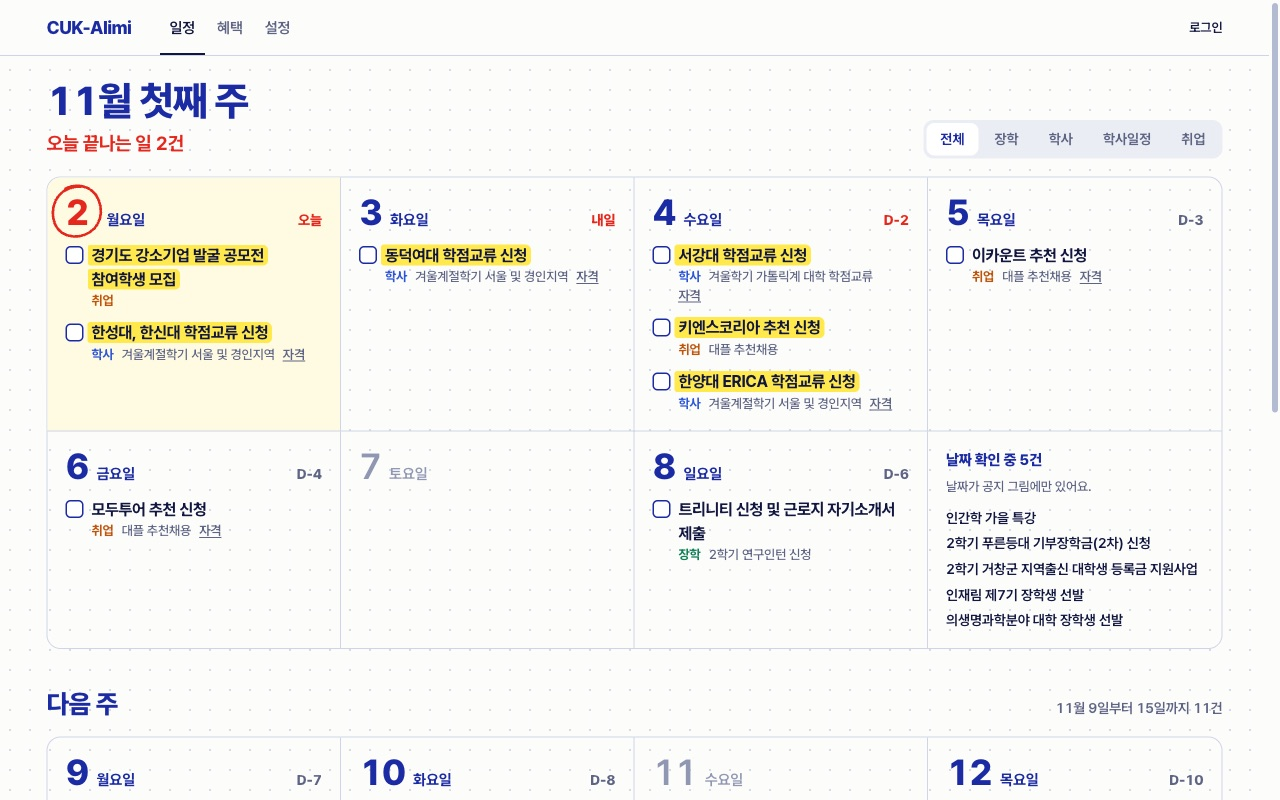
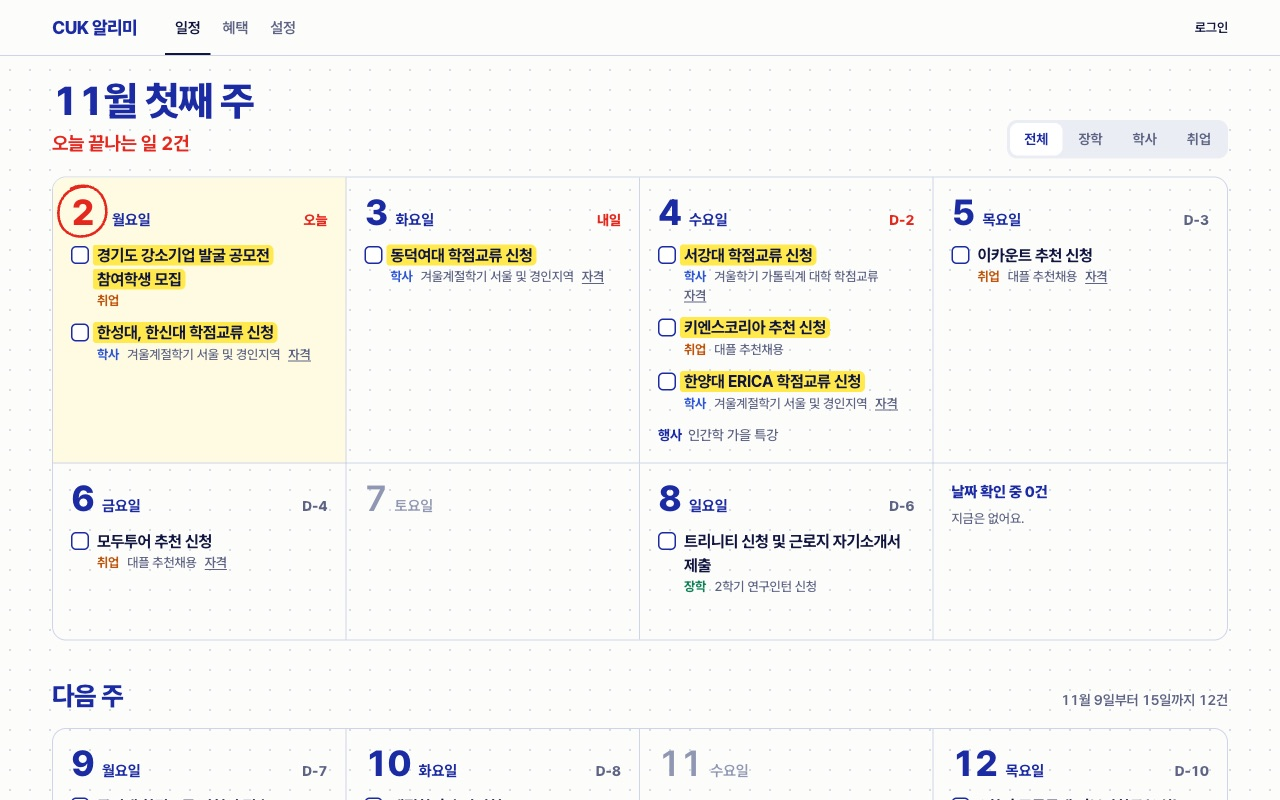
docs: 결정 기록을 1인칭으로 고치고 README를 제품부터 보여 주는 순서로 바꾼다

diff --git a/src/main/java/com/cukalimi/domain/DateItem.java b/src/main/java/com/cukalimi/domain/DateItem.java
@@ -20,7 +20,7 @@ public class DateItem {
 
     public static final String STATUS_AUTO = "AUTO";
     public static final String STATUS_REVIEWED = "REVIEWED";
-    /** 공지 그림을 AI가 받아 적은 글에서 읽은 날짜. 운영자가 승인하기 전까지 학생에게 보이지 않는다 (ADR 010). */
+    /** 공지 그림에서 읽었지만 공개하지 못한 날짜. 두 번 읽기가 어긋났거나 신고로 내려 운영자를 기다린다 (ADR 010). */
     public static final String STATUS_CANDIDATE = "CANDIDATE";
     /** 그림을 두 번 받아 적어 날짜가 일치해 자동으로 공개한 항목 (ADR 010). */
     public static final String STATUS_AUTO_IMAGE = "AUTO_IMAGE";

diff --git a/src/main/java/com/cukalimi/config/AppProperties.java b/src/main/java/com/cukalimi/config/AppProperties.java
@@ -33,7 +33,7 @@ public record AppProperties(
     }
 
     /**
-     * 그림 공지 받아 적기 (ADR 010). apiKey가 비면 꺼진다. dailyLimit은 하루에 새로 받아 적는 그림 수의 상한이다.
+     * 그림 공지 받아 적기 (ADR 010). apiKey가 비면 꺼진다. dailyLimit은 하루 호출 수의 상한이다. 그림 한 장을 두 번 읽으니 그림 수로는 절반이다.
      * toString에 키가 찍히지 않게 한다.
      */
     public record Transcribe(String apiKey, String model, int dailyLimit, String cron) {

diff --git a/README.md b/README.md
@@ -1,8 +1,16 @@
 # CUK-Alimi
 
-> A deadline tracker for Catholic University of Korea students. It collects school notices every hour, extracts the deadlines students must act on, and sends one morning email. Deadlines that only exist inside images are transcribed by Claude Haiku, parsed by the same rules, and published only after an operator approves them. Extraction accuracy is measured on an 89-notice gold set in CI (precision and recall 0.977) and published on a public page.
+> A deadline tracker for Catholic University of Korea students. It collects school notices every hour, extracts the deadlines students must act on, and sends one morning email. Deadlines that only exist inside images are transcribed twice by Claude Haiku, parsed by the same rules, and published when both reads agree. Students can report a wrong date. Extraction accuracy is measured on an 89-notice gold set in CI (precision and recall 0.977) and published on a public page.
 
 가톨릭대 학생이 놓치기 쉬운 장학·학사 공지의 마감을 뽑아, 출처가 붙은 것만 홈과 아침 메일로 알려 주는 개인 서비스입니다.
+
+## 문제
+
+학교 공지 게시판은 올라온 순서대로만 보여 줍니다. 그런데 장학 공지는 대부분 특정 지역이나 계층만 낼 수 있어서(장학 31건 중 13건이 시·군·구 연고 조건), 내게 맞는 것을 찾으려면 전부 열어 봐야 합니다. 마감도 본문 문장이나 표, 그림 속에 흩어져 있고, 장학·학사 공지의 약 23%는 날짜와 자격이 그림이나 첨부에만 있습니다. 공지 알림 앱은 다른 학교에도 많지만, 살펴본 앱들(건국대 쿠링, 전남대 전대알림 등)은 새 글과 키워드 알림이 중심이고 마감을 뽑아 주지는 않았습니다.
+
+## 서비스
+
+아직 배포 전입니다. 주소가 생기면 여기에 적습니다.
 
 ![이번 주 마감을 8칸으로 펼친 홈](docs/images/home.jpg)
 
@@ -10,13 +18,9 @@
 |---|---|
 | <img src="docs/images/mobile.jpg" alt="휴대폰 홈" width="280"> | <img src="docs/images/quality.jpg" alt="마감 정확도 페이지" width="520"> |
 
-## 문제
-
-학교 공지 게시판은 올라온 순서대로만 보여 줍니다. 그런데 장학 공지는 대부분 특정 지역이나 계층만 낼 수 있어서(장학 31건 중 13건이 시·군·구 연고 조건), 내게 맞는 것을 찾으려면 전부 열어 봐야 합니다. 마감도 본문 문장이나 표, 그림 속에 흩어져 있고, 장학·학사 공지의 약 23%는 날짜와 자격이 그림이나 첨부에만 있습니다. 공지 알림 앱은 다른 학교에도 많지만, 살펴본 앱들(건국대 쿠링, 전남대 전대알림 등)은 새 글과 키워드 알림이 중심이고 마감을 뽑아 주지는 않았습니다.
-
 ## 핵심 결정
 
-1. **틀린 날짜는 보여 주지 않는다.** 출처 링크, 확인일, 마감이 모두 있는 항목만 화면에 나옵니다. 날짜를 못 읽은 공지는 추측하지 않고 "날짜 확인 중"에 접어 둡니다 (ADR 003).
+1. **근거 없는 날짜는 보여 주지 않는다.** 원문 링크가 있고 규칙이 읽어 낸 날짜만 화면에 나옵니다. 날짜를 못 읽은 공지는 추측하지 않고 "날짜 확인 중"에 접어 둡니다 (ADR 003).
 2. **AI는 글자만 옮기고 날짜는 규칙이 뽑는다.** 그림에만 날짜가 있는 공지는 Claude Haiku가 그림 글자를 그대로 받아 적고, 그 글을 글 공지와 같은 규칙에 넣습니다. AI에게 마감을 직접 물으면 그럴듯한 날짜를 지어내도 어디서 틀렸는지 알 수 없어서입니다. 같은 그림을 두 번 따로 읽어 날짜가 일치할 때만 자동으로 공개하고, 어긋나면 운영자에게 넘깁니다. 공개한 날짜는 학생이 신고할 수 있습니다 (ADR 010).
 3. **정확도는 정답셋으로 잰다.** 공지 89건에 정답 마감을 붙여 두고, 코드가 바뀔 때마다 CI에서 다시 뽑아 비교합니다. 정밀도나 재현율이 떨어지거나 분류되지 않은 새 오류가 생기면 빌드가 깨집니다. 결과는 공개 페이지(`/quality`)에 그대로 보입니다 (ADR 011).
 4. **개인화는 판정이 아니라 순서다.** 연고 지역과 학년이 맞는 공지를 위로 올리고, 좁은 대상의 공지는 지우지 않고 접습니다. 소득이나 성적 조건은 판정하지 않고 원문 자격 문단을 그대로 보여 줍니다 (ADR 008, 009).
@@ -29,7 +33,7 @@
 | 마감 추출 정밀도 / 재현율 (정답셋 89건, 마감 86개) | 0.977 / 0.977 (처음 잰 값 0.886 / 0.886) |
 | 글 공지 71건 | 0.973 / 0.973 |
 | 그림 공지 18건 | 1.000 / 1.000 |
-| 그림 받아 적기 비용 | 그림 1장 약 $0.0007, 지금까지 9장에 $0.006 |
+| 그림 받아 적기 비용 | 1회 약 $0.0007, 지금까지 15회에 $0.009 |
 
 0.886에서 0.977로 올리는 동안 백테스트가 두 번 변경을 막았습니다. 한 번은 "까지 학점교류"의 "학점"을 "2.5학점" 같은 수치로 보고 마감을 버리던 숨은 버그였고, 한 번은 라벨러 사이에 갈린 정답 기준이었습니다.
 
@@ -40,7 +44,14 @@
 - 프로필 네 칸(입학년도, 전공, 복수전공, 연고 지역)으로 "내 것"이라고 정직하게 말할 수 있는 공지는 24%뿐입니다. 완벽한 개인화는 되지 않습니다.
 - 그림에서 읽은 날짜는 두 번 읽기가 일치하면 사람 확인 없이 공개됩니다. 같은 모델이 같은 글자를 똑같이 잘못 읽으면 틀린 날짜가 나갈 수 있고, 시험에서 어긋난 사례가 없어 오류 검출력은 아직 재지 못했습니다.
 - 남은 오류는 문장 속 마감("10월 3일 오전까지 보내 주세요")과 특강 일정표입니다.
+- 학교 `robots.txt`가 막는 경로에서 공지 그림을 받습니다. 학교에 문의할지, 끄고 배포할지는 배포 직전에 정합니다 (ADR 010).
 - 아직 배포 전이라 실사용자 지표는 없습니다. 운영을 시작하면 검수 기록(`review_event`)이 같은 페이지에 쌓입니다.
+
+## AI를 어떻게 썼나
+
+**제품 안.** Claude Haiku는 그림 글자를 받아 적는 일만 합니다. 날짜 판단은 규칙이 합니다.
+
+**만드는 과정.** 구현, 조사, 코드 리뷰, 정답 라벨 초안에 AI 코딩 도구(Claude Code)를 썼습니다. 무엇을 만들고 무엇을 버릴지는 제가 정했고, 화면은 직접 써 보고 몇 번 뒤집었습니다. 결과는 테스트, 정답셋, 브라우저 확인으로 검증했습니다. 정답 라벨은 사람이 10건만 확인했습니다.
 
 ## 무엇을 하나요
 
@@ -86,9 +97,9 @@ docker exec cukalimi-postgres psql -U cukalimi -d cukalimi \
 
 ## 문서
 
-- `docs/decisions/` 결정 기록. 무엇을 왜 골랐는지 다섯 줄씩.
+- `docs/decisions/` 결정 기록. 무엇을 왜 골랐고 나중에 무엇이 바뀌었는지.
 - `docs/verification/` 검증 기록. 무엇을 어떻게 확인했고 무엇이 남았는지.
 - `src/test/resources/fixtures/gold/` 마감 추출 정답셋. 정답과 아직 못 고친 오류가 함께 적혀 있습니다.
 - `docs/architecture.md` 수집에서 알림까지의 흐름.
 - `docs/ops-log.md` 운영 일지. 사용자 수, 발송 수, 오류, 정정.
-- `docs/ai-log/` 계획과 리뷰 기록.
+- `docs/ai-log/` AI 도구로 작업한 날의 계획과 리뷰 기록.

diff --git a/docs/ai-log/2026-10-26.md b/docs/ai-log/2026-10-26.md
@@ -10,7 +10,6 @@
 
 ## 승인
 
-- 계획 전문 `~/.claude/plans/synthetic-snuggling-fern.md`
 - ADR 001~008 승인. 002는 수집원을 셋(학사일정 표 주력, 공지 장학·학사)으로 넓혔고, 003은 공지 하나에 날짜 항목 여럿과 이미지 전용 공지의 수동 입력을 더했고, 008(프로필·대상 태그)을 추가했다.
 
 ## 구현 (2단계)
@@ -22,7 +21,7 @@
 ## 구현 (3단계)
 
 - 혜택 목록 `src/main/resources/benefits.yml` 15개. 공식 페이지를 직접 열어 확인한 것만. 작성자가 확인하고 링크를 남겼다.
-- 범위 결정. 사용자가 "청년까지 묶으면 범위가 너무 커진다"고 해서 나이 기준 혜택 4개를 뺐다.
+- 범위 결정. 청년까지 묶으면 범위가 너무 커져서 나이 기준 혜택 4개를 뺐다.
 - `BenefitSeedFile` 이 규칙 위반을 거부하고, `BenefitSeeder` 가 앱 시작 시 DB에 맞춘다. 기록은 `docs/verification/2026-10-26-benefits.md`.
 
 ## 리뷰 (별도 세션, 코드 수정 없이 보고만)
@@ -48,7 +47,7 @@
 
 ## 구현 (4단계)
 
-- 사용자가 승인한 결정 여섯. 같은 저장소 `web/`에 Next.js 정적 export, 화면 넷(일정·혜택·설정·검수), 읽기는 공개·쓰기는 로그인, 이메일 매직링크(로컬은 콘솔), 알림은 5단계로, 디자인은 흰 배경 목록.
+- 내가 정한 결정 여섯. 같은 저장소 `web/`에 Next.js 정적 export, 화면 넷(일정·혜택·설정·검수), 읽기는 공개·쓰기는 로그인, 이메일 매직링크(로컬은 콘솔), 알림은 5단계로, 디자인은 흰 배경 목록.
 - 배포 결정 정정. 화면도 Caddy가 같은 origin으로 내보낸다(ADR 006).
 - 브라우저로 실제 확인. 로그인 없이 일정·혜택 보기, 메일 링크로 로그인, 검수 화면에서 항목 수정과 검수 완료가 DB까지 반영되는 것을 확인했다. 기록은 `docs/verification/2026-10-26-screens.md`.
 - 확인하다 고친 것. 학사일정에서 미사·교수회의 같은 비관련 항목을 걸렀고, 학사일정은 파싱이 없으니 "검수 전" 표시를 뺐다. 로컬에서 메일 링크가 화면 주소(3000)를 가리켜 `api-url` 설정을 추가했다.
@@ -72,7 +71,7 @@
 
 ## 2026-10-29 개인화 보강과 실효성 검증
 
-- 남은 질문 가운데 Q2 학년 자동 태그, Q4 취창업, Q6 날짜 확인 중 구간, Q7 혜택 추가, Q8 한 줄 피드백을 승인받았다. Q3 학과 게시판과 Q5 다른 교정은 넣지 않았다. 사용자는 완벽한 개인화가 되는지와 실제로 도움이 되는지도 검증해 달라고 했다.
+- 남은 질문 가운데 Q2 학년 자동 태그, Q4 취창업, Q6 날짜 확인 중 구간, Q7 혜택 추가, Q8 한 줄 피드백을 넣기로 했다. Q3 학과 게시판과 Q5 다른 교정은 넣지 않았다. 완벽한 개인화가 되는지와 실제로 도움이 되는지도 검증해 달라고 했다.
 - 검증과 혜택 후보 조사는 서브에이전트 둘에게 맡겼다. 결과는 단서로만 보고, 일반 장학 11건 분류와 혜택 페이지 문구는 직접 다시 확인했다. 확인되지 않은 주거안정장학금 금액은 빼고, 한국 제공 여부가 없는 Unity는 뺐다.
 - 검증 결과 완벽한 개인화는 안 된다(네 칸으로 정직하게 말할 수 있는 공지 24%). "누구나 낼 수 있는 장학"이라는 말이 틀려서 설정과 ADR 004를 고쳤다. 기록은 `docs/verification/2026-10-29-personalization.md`.
 - 그림에만 날짜가 있는 공지를 AI가 받아 적고 규칙이 날짜를 뽑는 방식을 시험했다. Gemini 무료 등급은 하루 20회에서 멈췄고, 사용자 Claude API 키로 Haiku를 돌려 18건을 $0.035에 끝냈다. 틀린 곳은 모두 날짜 규칙이라 규칙 여섯 곳을 테스트부터 써서 고쳤고, 저장된 원문 97건은 고치기 전과 결과가 같았다. 기록은 `docs/verification/2026-10-29-image-ocr.md`.

diff --git a/docs/decisions/010-image-transcription.md b/docs/decisions/010-image-transcription.md
@@ -12,8 +12,10 @@
 
 **추가 (2026-11-02).** 후보 날짜가 모두 지난 공지는 학생의 "날짜 확인 중"에서 내리고 검수 큐에만 남긴다. 승인이 밀리지 않도록 승인 대기가 있는 날 아침에 운영자에게 메일을 보내고, 검수 목록에서 원문을 본 뒤 바로 승인할 수 있게 했다. 승인 전 날짜를 학생에게 보이지 않는다는 원칙은 그대로다. AI가 날짜를 잘못 읽어 지난 날짜로 만들었다면 유효한 공지가 학생 화면에서 내려갈 수 있어서, 이 판단은 매일 검수를 전제로 한다.
 
-**바뀜 (2026-11-02).** 운영자 승인을 필수에서 뺐다. 혼자 운영하면 며칠만 못 봐도 학생이 날짜를 볼 수 없고, 10월 1일 공지의 11월 11일 마감처럼 승인이 밀린 공지가 화면에서 사라지는 일도 나왔다. 이제 같은 그림을 두 번 따로 받아 적고, 두 번의 할 일 날짜가 모두 같고 게시일부터 1년 안이면 바로 공개한다(`AUTO_IMAGE`). 어긋나면 지금처럼 후보로 두고 "날짜 확인 중"에 남기며, 후보 날짜가 남은 동안은 30일이 지나도 보여 준다. 공개한 날짜는 로그인한 학생이 "날짜가 달라요"로 신고할 수 있고, 신고가 오면 바로 내려 운영자에게 넘긴다. 사용자 결정으로 학생 화면에 그림에서 읽었다는 표시는 넣지 않는다.
+**바뀜 (2026-11-02).** 운영자 승인을 필수에서 뺐다. 혼자 운영하면 며칠만 못 봐도 학생이 날짜를 볼 수 없고, 10월 1일 공지의 11월 11일 마감처럼 승인이 밀린 공지가 화면에서 사라지는 일도 나왔다. 이제 같은 그림을 두 번 따로 받아 적고, 두 번의 할 일 날짜가 모두 같고 게시일부터 1년 안이면 바로 공개한다(`AUTO_IMAGE`). 어긋나면 지금처럼 후보로 두고 "날짜 확인 중"에 남기며, 후보 날짜가 남은 동안은 30일이 지나도 보여 준다. 공개한 날짜는 로그인한 학생이 "날짜가 달라요"로 신고할 수 있고, 신고가 오면 바로 내려 운영자에게 넘긴다. 학생 화면에 그림에서 읽었다는 표시는 넣지 않기로 했다. 하루 상한 40은 이제 호출 수라서 그림으로는 하루 20장이다.
 
 정답셋 그림 18건 시험에서 두 번의 날짜는 모두 일치했고 모두 정답이었다 (`docs/verification/2026-11-02-dual-read.md`). 다만 어긋난 사례가 없어 두 번 읽기가 오류를 잡는다는 증거는 아직 없고, 같은 모델이 같은 글자를 똑같이 잘못 읽을 수 있다. 틀린 날짜가 표시 없이 공개될 수 있는 위험을 감수한 결정이다. 학생 신고 수와 공개 수를 품질 페이지에 공개해 운영 중에 잰다.
 
 신고로 내린 날짜는 항목에 표시해 두어, 신고한 사람이 탈퇴해도 다시 자동 공개되지 않는다. 운영자가 지운 날짜가 있는 공지도 다시 읽어 올리지 않는다. 아직 지나지 않은 후보가 있는 공지는 검수 큐에서 닫지 않는다. 신고는 로그인한 학생 한 명이면 날짜를 내린다. 누군가 일부러 신고해도 계정당 하루 10건까지이고, 탈퇴와 재가입으로 늘릴 수는 있지만 로그인 메일 제한(주소당 시간 3통)에 걸리고 공개된 그림 날짜 수를 넘지 못하며, 잘못 내려진 날짜는 "날짜 확인 중"과 승인 대기 메일로 넘어가 운영자가 되살린다. 빠른 차단을 우선해 받아들인 위험이다.
+
+**남은 결정 (2026-11-02).** 학교 `robots.txt`는 `/_attach/`를 막는데, 공지 그림이 모두 그 아래에 있다. 지금은 켜 둔 채 개발하고 있고, 요청은 새 그림 공지가 있을 때만 생긴다. 프로그램 이름은 숨기지 않는다. 학교에 문의해 허락을 받을지, 끄고 배포할지는 배포 직전에 정한다.

diff --git a/docs/decisions/012-home-by-date.md b/docs/decisions/012-home-by-date.md
@@ -8,8 +8,8 @@
 
 **이유.** 학생이 보는 것은 "며칠 남았나"이고, 그 물음에는 날짜가 구조여야 답이 빠르다. 좁은 대상을 접어 두는 ADR 009의 뜻은 접힌 구간이 그대로 지킨다. (3)은 ADR 009가 막은 "남의 지역 장학이 맨 위" 문제를 되살린다.
 
-**바뀜 (같은 날).** 날짜 목록은 사용자가 보고 "너무 별론데"라고 해서 버렸다. 시안을 다시 비교한 뒤 사용자가 위클리 플래너를 골랐다. 이제 홈은 이번 주와 다음 주를 8칸 판으로 그리고, 카드가 아니라 날짜 줄을 할 일로 펼친다. 한 공지의 대학별 마감은 같은 날이면 한 줄로 합쳐 ADR 009의 카드 도배 문제를 막는다. 취업·창업 공지도 판에 올리고, 지역 장학과 특정 대상은 ADR 009대로 판 아래에 접어 둔다. 달력은 뺐다. 끝냈어요 표시는 서버 없이 브라우저에만 남긴다.
+**바뀜 (같은 날).** 날짜 목록은 만들어 놓고 보니 마음에 들지 않아 버렸다. 시안을 다시 비교한 뒤 위클리 플래너로 정했다. 이제 홈은 이번 주와 다음 주를 8칸 판으로 그리고, 카드가 아니라 날짜 줄을 할 일로 펼친다. 한 공지의 대학별 마감은 같은 날이면 한 줄로 합쳐 ADR 009의 카드 도배 문제를 막는다. 취업·창업 공지도 판에 올리고, 지역 장학과 특정 대상은 ADR 009대로 판 아래에 접어 둔다. 달력은 뺐다. 끝냈어요 표시는 서버 없이 브라우저에만 남긴다.
 
-**추가 (같은 날).** 사람 확인에서 학위수여식 날짜가 앱 어디에도 보이지 않는다는 지적이 나왔다. 할 일이 없는 공지는 ADR 009대로 카드가 없어서다. 그래서 하루짜리 행사(수여식, 입학미사, 개강, 종강, 설명회, 오리엔테이션, 축제 등)를 `events` 구간으로 내려 주고 플래너 칸에 흐린 글자로 적는다. 모든 재학생 대상 공지와 학사일정 표만 올리고, 특강과 면접, 여러 날에 걸친 일정은 뺀다. 표가 없는 공지의 "일시" 줄도 읽게 했다. 이 항목은 안내로 분류되어 마감 정확도에는 잡히지 않고, 백테스트 수치는 0.977 그대로다. 마감이 아니므로 아침 메일에도 넣지 않는다. 신청이 함께 있는 공지의 행사일은 지금처럼 카드의 이후 일정에만 남는다.
+**추가 (같은 날).** 정답 라벨을 직접 확인하다가 학위수여식 날짜가 앱 어디에도 보이지 않는다는 것을 알았다. 할 일이 없는 공지는 ADR 009대로 카드가 없어서다. 그래서 하루짜리 행사(수여식, 입학미사, 개강, 종강, 설명회, 오리엔테이션, 축제 등)를 `events` 구간으로 내려 주고 플래너 칸에 흐린 글자로 적는다. 모든 재학생 대상 공지와 학사일정 표만 올리고, 특강과 면접, 여러 날에 걸친 일정은 뺀다. 표가 없는 공지의 "일시" 줄도 읽게 했다. 이 항목은 안내로 분류되어 마감 정확도에는 잡히지 않고, 백테스트 수치는 0.977 그대로다. 마감이 아니므로 아침 메일에도 넣지 않는다. 신청이 함께 있는 공지의 행사일은 지금처럼 카드의 이후 일정에만 남는다.
 
 **추가 (같은 날).** 행사의 빈틈 셋을 메웠다. 그림 공지는 할 일 없이 행사 날짜만 있어도 두 번 읽은 날짜가 같으면 자동 공개한다. 공지 제목이 특강이고 칸이 "일시"인 하루짜리 특강은 행사로 올리되, 취업 공지는 뺀다. 신청이 있는 공지의 행사일도 판에 함께 적는다. 앞의 "특강은 뺀다"와 "이후 일정에만 남는다"는 이 내용으로 바뀌었다. 행사 날짜의 두 번 읽기는 정답셋 시험에 들어 있지 않아 정확도를 재지 못했다.

diff --git a/docs/verification/2026-11-02-label-check.md b/docs/verification/2026-11-02-label-check.md
@@ -1,12 +1,12 @@
 # 정답 라벨 사람 확인 (2026-11-02)
 
-정답셋 89건 가운데 known 오류가 없는 공지에서 10건을 무작위로 뽑아 사용자가 직접 확인했다. 글 공지 마감 있음 5건, 글 공지 마감 없음 2건, 그림 공지 3건이다.
+정답셋 89건 가운데 known 오류가 없는 공지에서 10건을 무작위로 뽑아 내가 직접 확인했다. 글 공지 마감 있음 5건, 글 공지 마감 없음 2건, 그림 공지 3건이다.
 
 | 결과 | 건수 |
 |---|---|
 | 맞음 | 9 |
 | 이의 | 1 |
 
-이의가 나온 공지는 274824(2025학년도 후기 학위수여식 및 포토 스팟 안내)다. 라벨은 "할 일 마감 없음"이고, 사용자 의견은 학위수여식 날짜가 나와 있지 않다는 것이다. 원문에는 2026년 8월 20일 14:00이 적혀 있다. ADR 003 규칙 7은 지켜보기만 하는 날을 마감으로 세지 않으므로 라벨은 규칙과 일치한다. 다만 할 일이 없는 공지는 카드가 만들어지지 않아 이 날짜가 화면 어디에도 나오지 않는다. 행사 날짜를 보여 줄지는 제품 결정으로 남아 있고, 정답 라벨은 바꾸지 않았다.
+이의가 나온 공지는 274824(2025학년도 후기 학위수여식 및 포토 스팟 안내)다. 라벨은 "할 일 마감 없음"인데, 학위수여식 날짜가 화면에 나오지 않는 것이 걸렸다. 원문에는 2026년 8월 20일 14:00이 적혀 있다. ADR 003 규칙 7은 지켜보기만 하는 날을 마감으로 세지 않으므로 라벨은 규칙과 일치한다. 다만 할 일이 없는 공지는 카드가 만들어지지 않아 이 날짜가 화면 어디에도 나오지 않는다. 행사 날짜를 보여 줄지는 제품 결정으로 남아 있고, 정답 라벨은 바꾸지 않았다.
 
 10건은 표본이라 전체 라벨의 정확도를 뜻하지 않는다. 그림 공지는 확인표에 근거 글이 없어 원문을 열어 확인해야 했다.

diff --git a/docs/architecture.md b/docs/architecture.md
@@ -20,12 +20,12 @@
                                                 |  매시 20분, 그림 공지만. 그림 주소마다 한 번, 하루 상한
                                                 v
                                       +-------------------+      AI는 글자만 옮긴다. 날짜는 같은 파서가 뽑는다
-                                      |  그림 받아 적기    | ---> [ image_transcript ] -> [ date_item ] (CANDIDATE, 승인 전 비공개)
+                                      |  그림 받아 적기    | ---> [ image_transcript ] -> [ date_item ] (두 번 읽어 일치하면 공개, 어긋나면 CANDIDATE)
                                       +-------------------+
         |                                       |
         v                                       v
 +------------------------------------------------------+
-|   검수 화면    운영자가 매일 분류·날짜 항목 확인/수정/추가   | ---> status = REVIEWED
+|   검수 화면    운영자가 틈날 때 분류·날짜 항목 확인/수정/추가  | ---> status = REVIEWED
 +------------------------------------------------------+
         |
         v
@@ -43,7 +43,6 @@
 
 화면에 나오는 조건: 세 칸이 모두 채워짐
   - 마감일이 비면        -> "마감 확인 필요" 표시, 검수 큐
-  - 검수 전이면          -> "검수 전" 표시
   - 혜택 확인일 > 90일   -> "재확인 필요" 표시, 알림 제외
-틀린 정보가 나갔으면   -> 정정 알림 + 운영 일지
+틀린 날짜를 신고받으면  -> 그림 날짜는 바로 내림, 글 날짜는 운영자에게 메일 + 운영 일지
 ```

diff --git a/docs/decisions/007-operations.md b/docs/decisions/007-operations.md
@@ -1,9 +1,9 @@
 # 007. 운영
 
-**상황.** 이 프로젝트의 목적은 사용자가 실제로 쓰는 서비스를 운영해 보는 것이다. 운영 기록이 포트폴리오의 본문이 된다.
+**상황.** 이 프로젝트의 목적은 학생이 실제로 쓰는 서비스를 운영해 보는 것이다. 만들고 끝나면 이 서비스가 쓸모 있는지 알 수 없다.
 
 **선택지.** (1) 매일 검수 1분, 주 1회 운영 일지, 장애는 당일 기록. (2) 기록 없이 운영. (3) 자동 지표 대시보드만.
 
-**결정.** (1). `docs/ops-log.md`에 주 1회 사용자 수, 발송 수, 수집 오류, 정정 사건, 사용자가 한 말을 적는다. 장애와 정정은 당일 적는다. 숫자는 DB 조회 결과를 그대로 적고 출처 쿼리를 함께 둔다.
+**결정.** (1). `docs/ops-log.md`에 주 1회 사용자 수, 발송 수, 수집 오류, 정정 사건, 학생이 한 말을 적는다. 장애와 정정은 당일 적는다. 숫자는 DB 조회 결과를 그대로 적고 출처 쿼리를 함께 둔다.
 
-**이유.** 기억은 미화된다. 당일 기록만이 면접에서 "그때 무엇을 보고 무엇을 바꿨는지"를 말하게 해 준다. 대시보드는 숫자만 남고 판단이 남지 않는다.
+**이유.** 기억은 미화된다. 당일 기록이 있어야 나중에도 그때 무엇을 보고 무엇을 바꿨는지 말할 수 있다. 대시보드는 숫자만 남고 판단이 남지 않는다.

diff --git a/docs/decisions/001-stack.md b/docs/decisions/001-stack.md
@@ -1,9 +1,9 @@
 # 001. 스택
 
-**상황.** 사용자 10명 규모의 정보 서비스를 2주 안에 만들고, 만든 사람이 Java·Spring 백엔드 신입으로 지원한다.
+**상황.** 학생 10명이 먼저 쓸 정보 서비스를 2주 안에 만든다. 기획, 화면, 서버, 운영을 나 혼자 맡는다.
 
 **선택지.** (1) Java 21 + Spring Boot 3 + PostgreSQL + Next.js. (2) Next.js 하나로 풀스택(서버리스). (3) Python FastAPI + 정적 프론트.
 
 **결정.** (1). 백엔드는 Spring Boot 3.4, DB는 PostgreSQL 16, 프론트는 Next.js PWA, 로컬과 서버 모두 Docker Compose.
 
-**이유.** 지원 직무의 스택이고, 기존 저장소(concert-booking, realtime-chat)와 같은 틀이라 설명 부담이 없다. (2)는 빠르지만 수집 스케줄러와 푸시 발송처럼 오래 도는 작업이 서버리스에 맞지 않는다. (3)은 ETA에서 써 봤지만 지원 직무와 멀다.
+**이유.** 내가 가장 익숙한 스택이고, 기존 저장소(concert-booking, realtime-chat)와 같은 틀이라 운영까지 혼자 끌고 가기 쉽다. (2)는 빠르지만 수집 스케줄러와 푸시 발송처럼 오래 도는 작업이 서버리스에 맞지 않는다. (3)은 ETA에서 써 봤고, 이번에는 오래 도는 수집 작업을 익숙한 Spring으로 맡기기로 했다.
